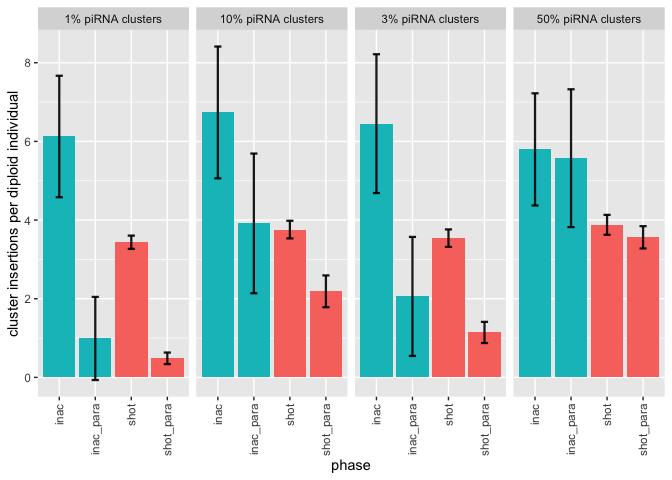
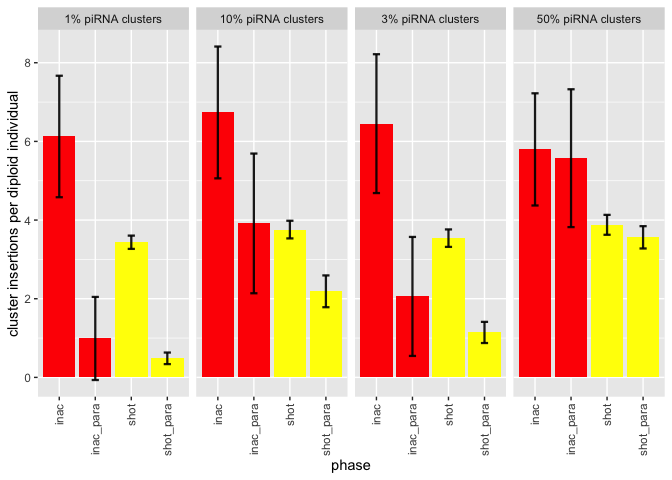
Colors

Changed region(s): [[0.0625, 0.2188, 1.0, 0.8125]]

diff --git a/Simulation/2022_08_29_Simulation_3_clusters.md b/Simulation/2022_08_29_Simulation_3_clusters.md
@@ -233,6 +233,7 @@ g2_3 <- ggplot(e, aes(x=tag, y=mean_avcli, fill = phase))+
   geom_errorbar( aes(x=tag, ymin=mean_avcli-sd_avcli, ymax=mean_avcli+sd_avcli), width=0.2, colour="black", alpha=0.9, size=0.8)+
   ylab("cluster insertions per diploid individual")+
   xlab("phase")+
+  scale_fill_manual(values = c("yellow", "red"))+
   theme(legend.position="none", axis.text.x = element_text(angle = 90, vjust = 0.5, hjust=1))+
   facet_wrap(~clusters, ncol=4)
 
@@ -254,6 +255,7 @@ g3_3 <- ggplot(e_3, aes(x=tag, y=mean_avpar, fill = phase))+
   geom_errorbar( aes(x=tag, ymin=mean_avpar-sd_avpar, ymax=mean_avpar+sd_avpar), width=0.2, colour="black", alpha=0.9, size=0.8)+
   ylab("paramutations per diploid individual")+
   xlab("phase")+
+  scale_fill_manual(values = c("yellow", "red"))+
   theme(legend.position="none", axis.text.x = element_text(angle = 90, vjust = 0.5, hjust=1))+
   facet_wrap(~clusters, ncol=4)
 
